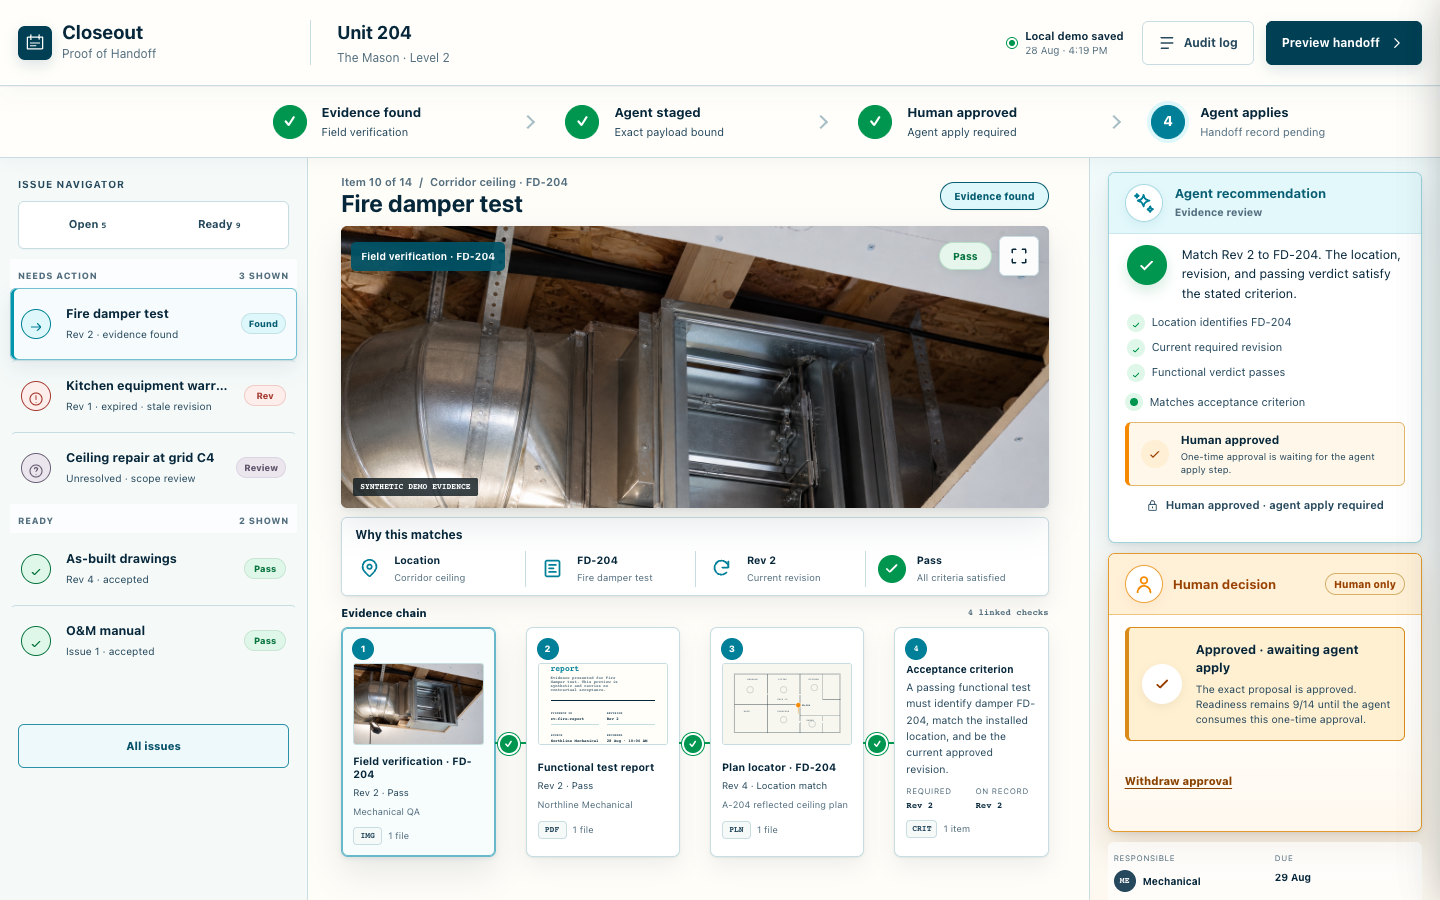
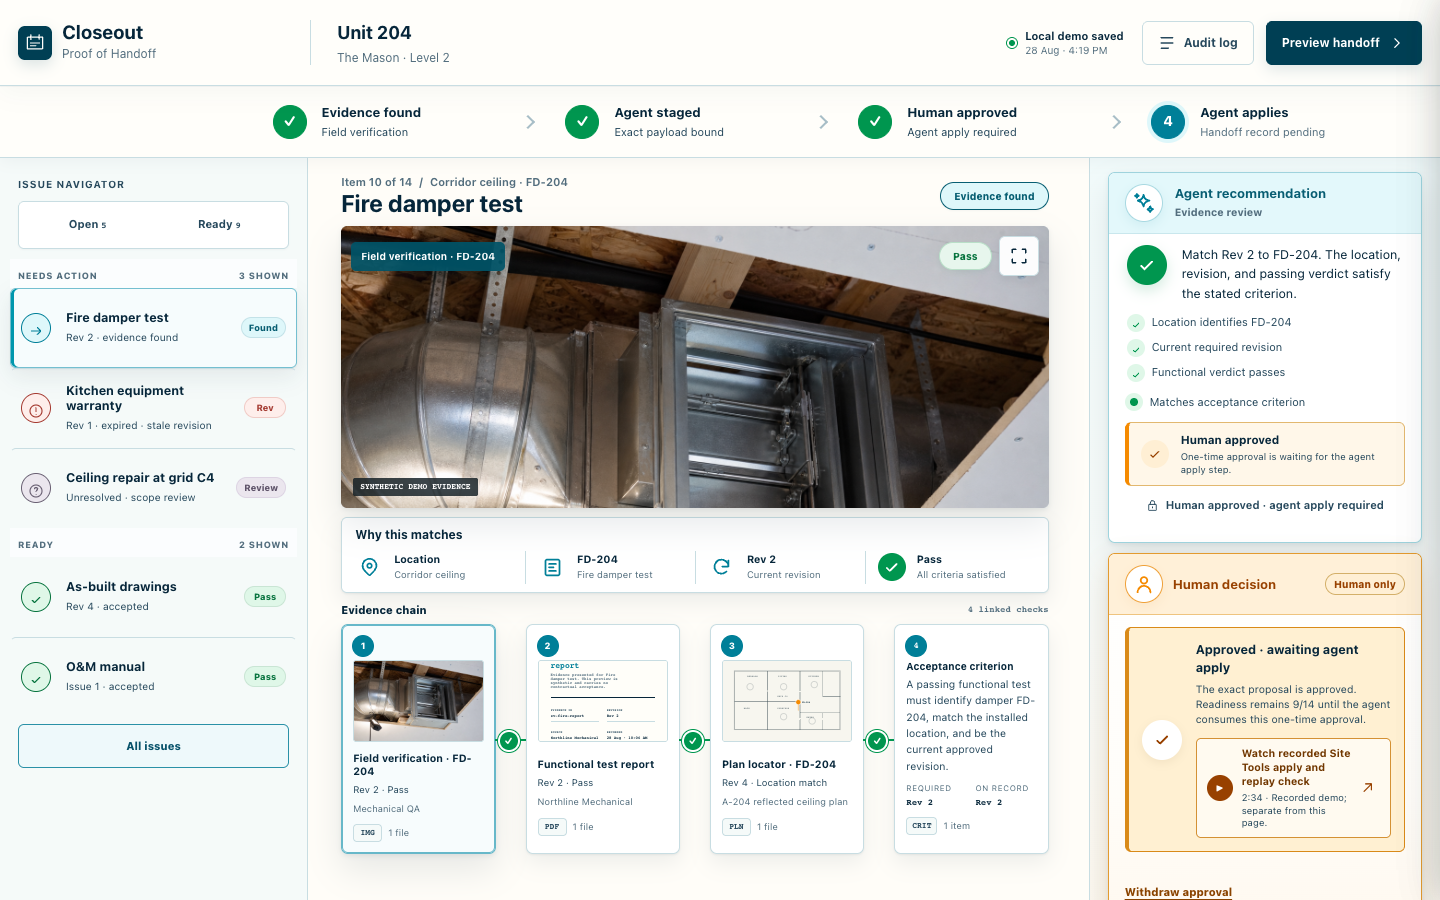
Improve Closeout reviewer flow and proof screenshots

diff --git a/app/styles.css b/app/styles.css
@@ -439,6 +439,7 @@ textarea:focus-visible,
   padding: 18px 20px 22px;
   background: var(--paper);
 }
+.review-guide { display: none; }
 
 .evidence-heading-row {
   display: flex;
@@ -1462,6 +1463,26 @@ body { background: var(--surface-canvas); }
 .decision-result[data-kind="rejected"] .decision-result-icon { color: var(--oxide-hover); }
 .decision-result[data-kind="deferred"] { border-color: var(--status-deferred-border); background: var(--status-deferred-surface); }
 .decision-result[data-kind="deferred"] .decision-result-icon { color: #7d581b; }
+.decision-walkthrough {
+  min-height: 48px;
+  display: grid;
+  grid-template-columns: 26px minmax(0, 1fr) 18px;
+  align-items: center;
+  gap: 9px;
+  margin-top: 11px;
+  padding: 8px 10px;
+  border: 1px solid #d49134;
+  border-radius: 5px;
+  background: #fffaf0;
+  color: #713700;
+  text-decoration: none;
+}
+.decision-walkthrough:hover { border-color: #a85b00; background: #fff4dc; }
+.decision-walkthrough:focus-visible { outline: 2px solid #fff; outline-offset: 2px; box-shadow: 0 0 0 5px #005f73; }
+.decision-walkthrough .walkthrough-play { width: 26px; height: 26px; display: grid; place-items: center; border-radius: 50%; background: #984100; color: #fff; font-size: 10px; }
+.decision-walkthrough strong { color: inherit; font-size: 10.5px; line-height: 1.3; }
+.decision-walkthrough small { color: var(--ink-soft); font-size: 9.5px; line-height: 1.3; }
+.decision-walkthrough .walkthrough-open { color: var(--amber-strong); font-size: 15px; }
 .decision-actions { grid-template-columns: 1fr 1fr; gap: 8px; }
 .decision-actions .button:first-child { grid-column: 1 / -1; min-height: 50px; font-size: 13px; }
 .decision-actions .button:not(:first-child) { min-height: 48px; }
@@ -1524,6 +1545,22 @@ body { background: var(--surface-canvas); }
 @media (max-width: 1450px) and (min-width: 1081px) {
   .requirement-owner { display: none; }
   .requirement-tail { min-width: 42px; }
+  .requirement-row { min-height: 80px; }
+  .requirement-copy strong {
+    display: -webkit-box;
+    overflow: hidden;
+    line-height: 1.25;
+    white-space: normal;
+    -webkit-box-orient: vertical;
+    -webkit-line-clamp: 2;
+  }
+  .match-facts strong,
+  .match-facts small {
+    overflow: visible;
+    text-overflow: clip;
+    line-height: 1.3;
+    white-space: normal;
+  }
 }
 
 @media (max-width: 1280px) and (min-width: 1081px) {
@@ -1659,6 +1696,23 @@ body { background: var(--surface-canvas); }
   .view-all-issues { width: 100%; margin: 0 0 max(18px, env(safe-area-inset-bottom)); }
   .view-all-issues.is-active { display: none; }
   .evidence-workspace { width: 100%; padding: 20px 14px 36px; overflow: visible; background: #fffdf8; }
+  .review-guide {
+    display: grid;
+    grid-template-columns: minmax(0, 1fr) auto;
+    align-items: center;
+    gap: 12px;
+    margin: 0 0 14px;
+    padding: 12px;
+    border: 1px solid #a9d5df;
+    border-left: 4px solid var(--blueprint);
+    border-radius: 6px;
+    background: linear-gradient(115deg, #f0fbfc, #fff);
+    box-shadow: var(--shadow-soft);
+  }
+  .review-guide .eyebrow { margin: 0 0 3px; color: #075d72; font-size: 9px; }
+  .review-guide strong { display: block; color: var(--ink); font-size: 11px; line-height: 1.35; }
+  .review-guide p:last-child { margin: 4px 0 0; color: var(--ink-soft); font-size: 9.5px; line-height: 1.4; }
+  .review-guide .button { min-height: 44px; gap: 7px; padding: 8px 10px; white-space: nowrap; font-size: 10px; }
   .decision-desk { gap: 16px; padding: 20px 14px 90px; overflow: visible; background: linear-gradient(180deg, #f0fbfb 0%, #f8fbf9 44%, #fff8ed 100%); }
   .decision-topline { display: flex; justify-content: flex-start; }
   .decision-title { display: block; }
@@ -1666,7 +1720,8 @@ body { background: var(--surface-canvas); }
   .decision-title .eyebrow { color: #075d72; }
   .decision-title h2 { margin: 2px 0 5px; font-size: 22px; }
   .decision-title p:last-child { margin: 0; color: var(--ink-soft); font-size: 11.5px; line-height: 1.5; }
-  .evidence-viewport { height: clamp(310px, 48vh, 440px); }
+  .evidence-viewport { height: clamp(260px, 38vh, 350px); min-height: 260px; }
+  .human-decision { scroll-margin-top: 188px; }
   .sequence-mobile-hint { display: inline-flex; align-items: center; gap: 5px; margin-left: auto; color: var(--blueprint); font-size: 9px; font-weight: 750; }
   .sequence-heading #evidence-count { display: none; }
   .evidence-chain-grid { display: grid; grid-template-columns: 1fr; gap: 14px; overflow: visible; padding: 0; }
@@ -1694,6 +1749,8 @@ body { background: var(--surface-canvas); }
   .topbar { grid-template-columns: auto minmax(0, 1fr) auto; }
   .brand-lockup h1 { font-size: 16px; }
   .brand-mark { width: 34px; height: 34px; }
+  .review-guide { grid-template-columns: minmax(0, 1fr); gap: 9px; }
+  .review-guide .button { justify-content: center; width: 100%; }
   .project-identity {
     min-width: 0;
     display: flex;

diff --git a/app/app.js b/app/app.js
@@ -63,7 +63,7 @@
     "evidence-fallback", "evidence-source", "evidence-captured", "evidence-revision", "evidence-hash", "evidence-count",
     "evidence-tabs", "criterion-text", "required-revision", "current-revision", "scope-lane", "decision-heading",
     "decision-summary", "recommendation-match", "recommendation-text", "rule-checks", "stage-proposal", "stage-proposal-label", "decision-state",
-    "decision-copy", "decision-helper", "decision-actions", "decision-result", "decision-result-icon", "decision-result-title", "decision-result-copy",
+    "decision-copy", "decision-helper", "decision-actions", "decision-result", "decision-result-icon", "decision-result-title", "decision-result-copy", "decision-walkthrough",
     "decision-inline-error", "accept-decision", "accept-decision-icon", "accept-decision-label", "reject-decision", "defer-decision", "reopen-decision", "owner-initials",
     "owner-name", "due-date", "tool-registration", "tool-registration-copy", "audit-count", "drawer-backdrop",
     "handoff-drawer", "audit-drawer", "package-ready-count", "package-exception-count", "package-state",
@@ -72,7 +72,7 @@
     "decision-note", "decision-note-error", "dialog-cancel", "dialog-confirm", "toast-region", "zoom-toggle",
     "plan-template", "workflow-stage-label", "workflow-stage-copy", "workflow-human-label", "workflow-human-copy", "approval-boundary",
     "workflow-applied-label", "workflow-applied-copy", "match-location", "match-identity-label", "match-identity-copy", "match-revision",
-    "match-verdict", "match-verdict-copy", "mobile-toggle-issues", "human-decision-card", "stage-status", "stage-status-icon",
+    "match-verdict", "match-verdict-copy", "mobile-toggle-issues", "human-decision-card", "human-decision-heading", "stage-status", "stage-status-icon",
     "stage-status-label", "stage-status-copy"
   ].map((id) => [id, document.getElementById(id)]));
 
@@ -622,6 +622,7 @@
     refs["stage-proposal-label"].textContent = canStage ? mutationPolicy.stageLabel : blockedStageCopy;
     refs["decision-copy"].hidden = false;
     refs["decision-result"].hidden = true;
+    refs["decision-walkthrough"].hidden = true;
     refs["decision-actions"].hidden = false;
     refs["accept-decision"].disabled = true;
     refs["accept-decision-label"].textContent = "Accept evidence";
@@ -705,6 +706,7 @@
     if (pending.status === "approved") {
       refs["approval-boundary"].textContent = "Human approved · agent apply required";
       showDecisionResult("approved", "Approved · awaiting agent apply", "The exact proposal is approved. Readiness remains 9/14 until the agent consumes this one-time approval.", "tick");
+      refs["decision-walkthrough"].hidden = false;
       refs["reopen-decision"].hidden = false;
       refs["reopen-decision"].textContent = "Withdraw approval";
       return;
@@ -1381,6 +1383,10 @@
   document.querySelectorAll("[data-mobile-panel]").forEach((button) => button.addEventListener("click", () => {
     setMobilePanel(button.dataset.mobilePanel, window.matchMedia("(max-width: 1080px)").matches);
   }));
+  document.querySelector("[data-open-decision]").addEventListener("click", () => {
+    const mobileLayout = window.matchMedia("(max-width: 1080px)").matches;
+    setMobilePanel("decision", mobileLayout);
+  });
   document.querySelectorAll("[data-open-drawer]").forEach((button) => button.addEventListener("click", () => openDrawer(button.dataset.openDrawer)));
   document.querySelectorAll("[data-close-drawer]").forEach((button) => button.addEventListener("click", () => closeDrawer()));
   refs["drawer-backdrop"].addEventListener("click", () => closeDrawer());
@@ -1394,6 +1400,12 @@
       ? stageProposal({ requirementId: requirement.id, evidenceId: mutationPolicy.evidenceId, reason: mutationPolicy.defaultReason }, "Agent demo control")
       : Promise.resolve(fail("EVIDENCE_NOT_ELIGIBLE", "This item does not have a bounded demo mutation.")));
     showToast(result.ok ? "Proposal staged" : result.error.code, result.ok ? "Readiness remains unchanged until a person approves and the agent applies." : result.error.message, !result.ok);
+    if (result.ok && window.matchMedia("(max-width: 1080px)").matches) {
+      requestAnimationFrame(() => {
+        refs["human-decision-heading"].focus({ preventScroll: true });
+        refs["human-decision-card"].scrollIntoView({ block: "start", behavior: "instant" });
+      });
+    }
   });
   refs["accept-decision"].addEventListener("click", async () => {
     const result = await runDecisionAction("Recording the exact human approval…", () => recordHumanDecision("approve"));

diff --git a/app/index.html b/app/index.html
@@ -147,6 +147,15 @@
           <span class="status-badge status-unmatched_evidence" id="selected-status">Evidence found</span>
         </header>
 
+        <aside class="review-guide" aria-labelledby="review-guide-heading">
+          <div>
+            <p class="eyebrow">Next step</p>
+            <strong id="review-guide-heading">Review the match, then open Decision.</strong>
+            <p>Inspect the recommendation before staging. Only a person can approve; Site Tools applies only after approval.</p>
+          </div>
+          <button class="button button-secondary" type="button" data-open-decision aria-controls="decision-panel">Open Decision <span aria-hidden="true">→</span></button>
+        </aside>
+
         <section class="evidence-table" aria-label="Selected requirement evidence">
           <div class="evidence-toolbar">
             <div>
@@ -240,7 +249,7 @@
           <div class="section-heading">
             <div class="human-heading-lockup">
               <span class="decision-glyph" aria-hidden="true"><svg class="semantic-icon"><use href="#icon-person"/></svg></span>
-              <div><p class="eyebrow" id="human-decision-heading">Human decision</p></div>
+              <div><p class="eyebrow" id="human-decision-heading" tabindex="-1">Human decision</p></div>
             </div>
             <span class="human-only">Human only</span>
           </div>
@@ -250,7 +259,13 @@
           </div>
           <div class="decision-result" id="decision-result" role="status" hidden>
             <span class="decision-result-icon" aria-hidden="true"><svg class="semantic-icon"><use id="decision-result-icon" href="#icon-check"/></svg></span>
-            <span><strong id="decision-result-title">Approved · awaiting agent apply</strong><small id="decision-result-copy">The exact approval is recorded and has not changed readiness.</small></span>
+            <span><strong id="decision-result-title">Approved · awaiting agent apply</strong><small id="decision-result-copy">The exact approval is recorded and has not changed readiness.</small>
+              <a class="decision-walkthrough" id="decision-walkthrough" href="https://youtu.be/juAD0BmmExc" target="_blank" rel="noopener noreferrer" aria-label="Watch recorded Site Tools apply and replay check (2 minutes 34 seconds, opens in a new tab)" hidden>
+                <span class="walkthrough-play" aria-hidden="true">▶</span>
+                <span><strong>Watch recorded Site Tools apply and replay check</strong><small>2:34 · Recorded demo; separate from this page.</small></span>
+                <span class="walkthrough-open" aria-hidden="true">↗</span>
+              </a>
+            </span>
           </div>
           <div class="decision-actions" id="decision-actions">
             <button class="button button-accept" type="button" id="accept-decision" disabled><svg class="semantic-icon" aria-hidden="true"><use id="accept-decision-icon" href="#icon-lock"/></svg><span id="accept-decision-label">Accept evidence</span></button>

diff --git a/README.md b/README.md
@@ -17,7 +17,37 @@ Crypto, and Playwright to model a guarded four-step workflow: find evidence,
 stage an exact proposal, require a visible human decision, and apply that
 approved payload once.
 
+## Quick reviewer path
+
+Closeout addresses a handoff failure: stale or mislinked proof can look
+complete while real exceptions remain open. The [live demo](https://closeout-proof-of-handoff.vercel.app/)
+starts with fictional Unit 204 data at `9/14` ready and five open exceptions.
+
+1. In the selected **Fire damper test**, compare the criterion with the visible
+   evidence for `FD-204`, current Rev 2, and a passing result. Click **Stage
+   exact match for review**; readiness stays `9/14`. The full
+   [Site Tools call sequence](#try-the-complete-site-tools-workflow) gives the
+   equivalent tool inputs.
+2. You make the decision: click **Accept evidence**. In a compatible
+   ChatGPT/Chrome WebMCP surface, read the token with
+   `closeout_pending_approval`, then apply it once with
+   `closeout_apply_approved_change`; readiness becomes `10/14`. Reusing that
+   token returns `APPROVAL_CONSUMED`. In an ordinary browser, use the
+   [2:34 walkthrough](https://youtu.be/juAD0BmmExc) for the Site Tools apply
+   and replay step.
+3. Inspect the [production handlers](app/app.js),
+   [browser regression suite](tests/run-production-regression.mjs), and
+   [verification record](VERIFICATION.md).
+
+**Scope boundary:** this is a static frontend with synthetic data and
+page-local demo state—not a backend, database, authenticated approval service,
+or real construction integration.
+
 ![Closeout desktop evidence and decision workspace](docs/images/closeout-desktop-approved.png)
+
+These screenshots were captured with a local Site Tools registration shim for
+the test walkthrough. The ordinary-browser live page correctly labels itself
+Preview mode; its human approval does not apply the change by itself.
 
 ## What this repository demonstrates
 
@@ -89,8 +119,10 @@ keeping scope questions from becoming false completion.
    intentionally shows preview mode.
 2. Call `closeout_read_state` and `closeout_identify_blockers`: the clean seed
    is `9/14` with five explicit blockers.
-3. Stage `requirementId: "fire-test"` with
-   `evidenceId: "ev-fire-photo"`. Readiness must remain `9/14`.
+3. Call `closeout_stage_change` with `requirementId: "fire-test"`,
+   `evidenceId: "ev-fire-photo"`, and
+   `reason: "Current Rev 2 passing test directly satisfies the FD-204 fire damper requirement."`.
+   Readiness must remain `9/14`.
 4. Use the visible **Accept evidence** control on the page. No Site Tool can
    make that human decision.
 5. Apply the returned approval token once. Readiness moves to `10/14`.
